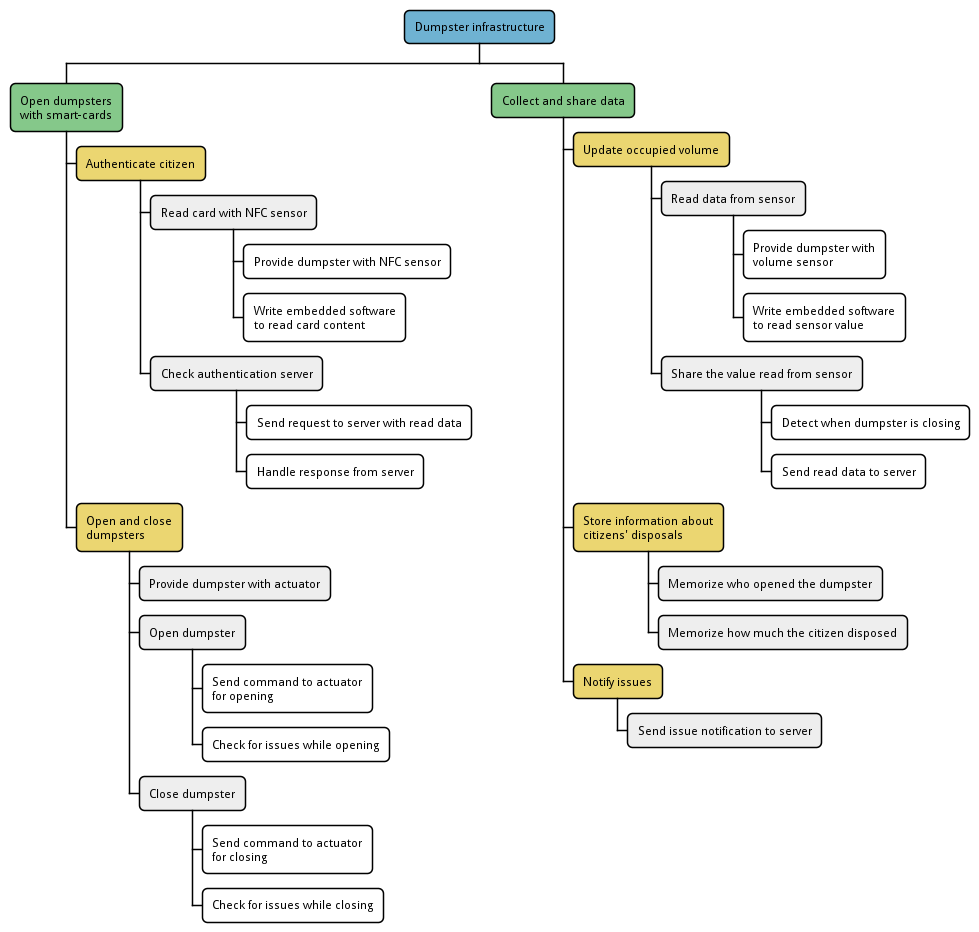
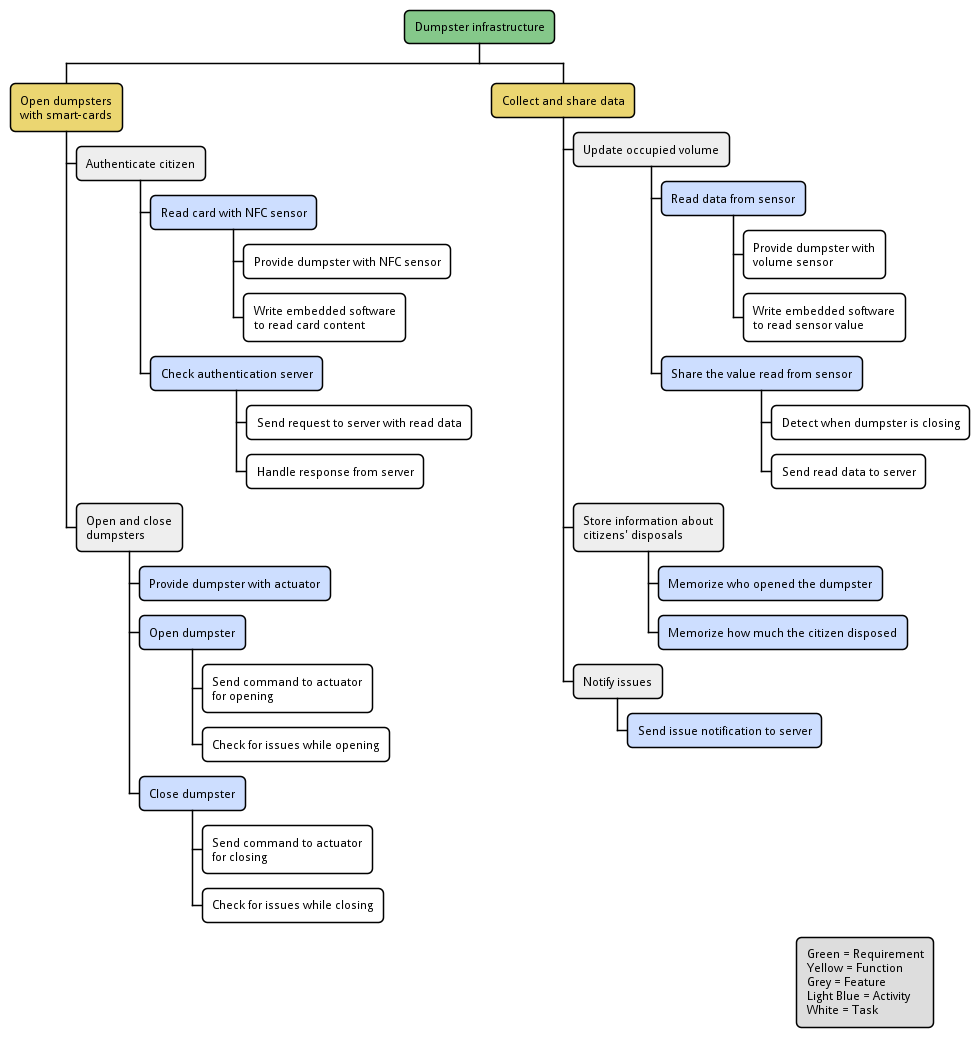
docs(uml): generate PNG files for PlantUML diagrams

Changed region(s): [[0.0, 0.0, 1.0, 0.9957], [0.7967, 0.8712, 0.9806, 0.9957]]

diff --git a/doc/appendix/appendix.tex b/doc/appendix/appendix.tex
@@ -3,9 +3,49 @@
 
 \begin{figure}[H]
     \centering
+    \includegraphics[width=\textwidth]{img/citizen-ubiquitous-language}
+    \caption{\textit{Ubiquitous Language}: i termini del topic "cittadino".}
+    \label{fig:img/citizen-ubiquitous-language}
+\end{figure}
+
+
+\begin{figure}[H]
+    \centering
+    \includegraphics[width=\textwidth]{img/collection-ubiquitous-language}
+    \caption{\textit{Ubiquitous Language}: i termini del topic "raccolta".}
+    \label{fig:img/collection-ubiquitous-language}
+\end{figure}
+
+
+\begin{figure}[H]
+    \centering
+    \includegraphics[width=\textwidth]{img/dumpster-ubiquitous-language}
+    \caption{\textit{Ubiquitous Language}: i termini del topic "cassonetti".}
+    \label{fig:img/dumpster-ubiquitous-language}
+\end{figure}
+
+
+\begin{figure}[H]
+    \centering
+    \includegraphics[width=\textwidth]{img/truck-ubiquitous-language}
+    \caption{\textit{Ubiquitous Language}: i termini del topic "camioncini".}
+    \label{fig:img/truck-ubiquitous-language}
+\end{figure}
+
+
+\begin{figure}[H]
+    \centering
+    \includegraphics[width=\textwidth]{img/waste-ubiquitous-language}
+    \caption{\textit{Ubiquitous Language}: i termini del topic "rifiuti".}
+    \label{fig:img/waste-ubiquitous-language}
+\end{figure}
+
+
+\begin{figure}[H]
+    \centering
     \includegraphics[width=\textwidth]{uml/impact-mapping.pm}
     \caption{\textit{Impact map} che, a partire dal \textit{goal}, mostra quali sono le soluzioni con maggiore impatto sugli attori del sistema.}
-    \label{fig:impact-mapping}
+    \label{fig:uml/impact-mapping}
 \end{figure}
 
 
@@ -13,7 +53,7 @@
     \centering
     \includegraphics[width=\textwidth]{uml/benefit-mapping.pm}
     \caption{\textit{Impact map} che, a partire dal \textit{goal}, mostra chi sono gli attori che beneficiano maggiormente dai cambiamenti introdotti dal sistema.}
-    \label{fig:benefit-mapping}
+    \label{fig:uml/benefit-mapping}
 \end{figure}
 
 
@@ -21,7 +61,7 @@
     \centering
     \includegraphics[width=\textwidth]{uml/ordinary-disposal-use-cases.pm}
     \caption{Diagramma dei casi d'uso dello scenario del conferimento di rifiuti ordinari.}
-    \label{fig:ordinary-disposal-use-cases}
+    \label{fig:uml/ordinary-disposal-use-cases}
 \end{figure}
 
 
@@ -29,7 +69,7 @@
     \centering
     \includegraphics[width=\textwidth]{uml/ordinary-collection-use-cases.pm}
     \caption{Diagramma dei casi d'uso dello scenario della raccolta di rifiuti ordinari.}
-    \label{fig:ordinary-collection-use-cases}
+    \label{fig:uml/ordinary-collection-use-cases}
 \end{figure}
 
 
@@ -37,7 +77,7 @@
     \centering
     \includegraphics[width=\textwidth]{uml/extraordinary-management-use-cases.pm}
     \caption{Diagramma dei casi d'uso dello scenario della gestione di rifiuti straordinari.}
-    \label{fig:extraordinary-management-use-cases}
+    \label{fig:uml/extraordinary-management-use-cases}
 \end{figure}
 
 
@@ -45,7 +85,7 @@
     \centering
     \includegraphics[width=\textwidth]{uml/dashboard-use-cases.pm}
     \caption{Diagramma dei casi d'uso dello scenario dell'utilizzo della dashboard.}
-    \label{fig:dashboard-use-cases}
+    \label{fig:uml/dashboard-use-cases}
 \end{figure}
 
 
@@ -53,7 +93,7 @@
     \centering
     \includegraphics[width=\textwidth]{uml/complaints-use-cases.pm}
     \caption{Diagramma dei casi d'uso dello scenario della gestione dei reclami.}
-    \label{fig:complaints-use-cases}
+    \label{fig:uml/complaints-use-cases}
 \end{figure}
 
 
@@ -61,6 +101,22 @@
     \centering
     \includegraphics[width=\textwidth]{uml/requirement-breakdown-structure.pm}
     \caption{\textit{Requirement Breakdown Structure} derivata dall'analisi delle \textit{user stories} e parzialmente inclusa nel \textit{Project Overview Statement}  }
-    \label{fig:requirement-breakdown-structure}
+    \label{fig:uml/requirement-breakdown-structure}
+\end{figure}
+
+
+\begin{figure}[H]
+    \centering
+    \includegraphics[width=\textwidth]{uml/wbs-dumpster-infrastructure.pm}
+    \caption{}
+    \label{fig:uml/wbs-dumpster-infrastructure}
+\end{figure}
+
+
+\begin{figure}[H]
+    \centering
+    \includegraphics[width=\textwidth]{uml/wbs-citizen-app.pm}
+    \caption{}
+    \label{fig:uml/wbs-citizen-app}
 \end{figure}
 
